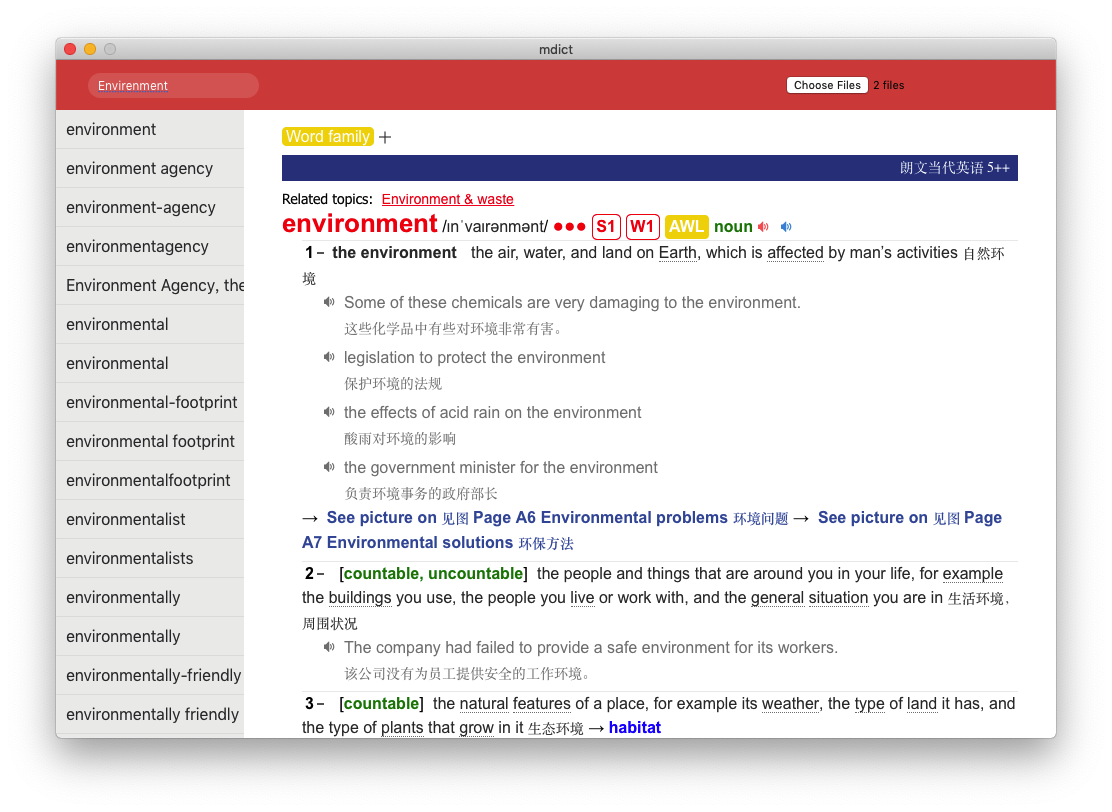
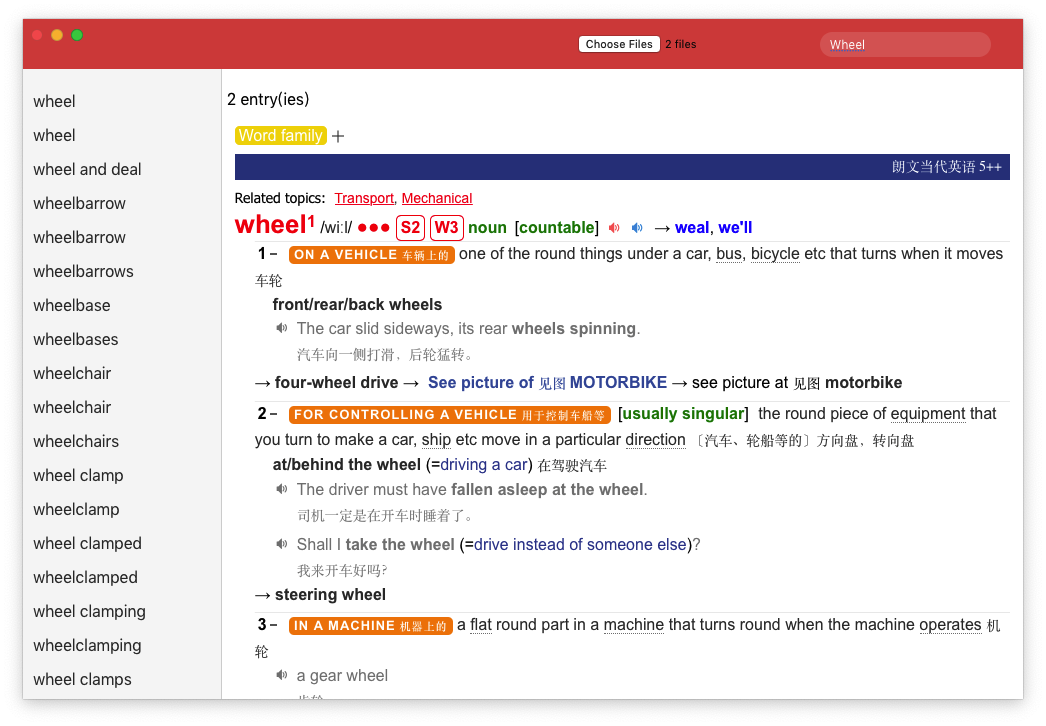
界面优化

diff --git a/public/static/js/mdict-renderer.js b/public/static/js/mdict-renderer.js
@@ -1,7 +1,7 @@
 /*
  * A basic html renderer companioned with mdict-render.js to retrieve word's definition from a MDict dictionary.
  * By Feng Dihai <fengdh@gmail.com>, 2015/07/01
- * 
+ *
  * For my wife, my kids and family to whom I'm in love with life.
  *
  * This is free software released under terms of the MIT License.
@@ -29,124 +29,132 @@
 (function (root, factory) {
   "use strict";
 
-  if (typeof define === 'function' && define.amd) {
+  if (typeof define === "function" && define.amd) {
     // AMD. Register as an anonymous module.
-    define(['jquery', 'bluebird', 'speex', 'pcmdata', 'bitstring'], factory);
+    define(["jquery", "bluebird", "speex", "pcmdata", "bitstring"], factory);
   } else {
     // Browser globals
     factory(jQuery, Promise);
   }
-
-}(this, function ($, Promise, SpeexLib, PCMDataLib) {
+})(this, function ($, Promise, SpeexLib, PCMDataLib) {
   var MIME = {
-    'css': 'text/css',
-    'img': 'image',
-    'jpg': 'image/jpeg',
-    'png': 'image/png',
-    'spx': 'audio/x-speex',
-    'wav': 'audio/wav',
-    'mp3': 'audio/mp3',
-    'js' : 'text/javascript'
+    css: "text/css",
+    img: "image",
+    jpg: "image/jpeg",
+    png: "image/png",
+    spx: "audio/x-speex",
+    wav: "audio/wav",
+    mp3: "audio/mp3",
+    js: "text/javascript",
   };
-  
+
   function getExtension(filename, defaultExt) {
     return /(?:\.([^.]+))?$/.exec(filename)[1] || defaultExt;
   }
-  
+
   // TODO: revoke unused resource, LRU
   // TODO: support for word variation
   return function createRenderer(resources) {
-
     var cache = (function createCache(mdd) {
-    var repo = {};
-    
+      var repo = {};
+
       function get(id, load) {
         var entry = repo[id];
         if (!entry) {
-          repo[id] = entry = new Promise(function(resolve) {
-          var will = mdd.then(function(lookup) {
-            console.log('lookup: ' + id);
-            return lookup(id);
-          }).then(load)
-            .then(function(url) { resolve(url); });
+          repo[id] = entry = new Promise(function (resolve) {
+            var will = mdd
+              .then(function (lookup) {
+                // console.log('lookup: ' + id);
+                return lookup(id);
+              })
+              .then(load)
+              .then(function (url) {
+                resolve(url);
+              });
           });
         }
         return entry;
       }
-      
-      return {get: get};
-    })(resources['mdd']);
-    
+
+      return { get: get };
+    })(resources["mdd"]);
+
     function loadData(mime, data) {
-      var blob = new Blob([data], {type: mime});
-      return URL.createObjectURL(blob);      
+      var blob = new Blob([data], { type: mime });
+      return URL.createObjectURL(blob);
     }
-  
+
     function loadAudio(ext, data) {
-      if (ext === 'spx') {
+      if (ext === "spx") {
         var blob = decodeSpeex(String.fromCharCode.apply(null, data));
         return URL.createObjectURL(blob);
-      } else {  // 'spx'
-        return loadData(MIME[ext] || 'audio', data);
+      } else {
+        // 'spx'
+        return loadData(MIME[ext] || "audio", data);
       }
     }
-    
+
     // TODO: LRU cache: remove oldest one only after rendering.
     function replaceImage(index, img) {
       var $img = $(img);
-      var src = $img.attr('src'), m = /^file:\/\/(.*)/.exec(src);
-      if (m) { src = m[1]; }
-      cache.get(src, loadData.bind(null, MIME['img']))
-           .then(function(url) {
-              $img.attr({src: url, src_: src});
-            });
+      var src = $img.attr("src"),
+        m = /^file:\/\/(.*)/.exec(src);
+      if (m) {
+        src = m[1];
+      }
+      cache.get(src, loadData.bind(null, MIME["img"])).then(function (url) {
+        $img.attr({ src: url, src_: src });
+      });
     }
-    
+
     function playAudio(e, $a) {
-      ($a || $(this)).find('audio')[0].play();
+      ($a || $(this)).find("audio")[0].play();
     }
-    
+
     function renderAudio() {
       var $a = $(this);
-      if ($a.attr('href_')) {
+      if ($a.attr("href_")) {
         playAudio($a);
       } else {
-        var href = $a.attr('href'), res = href.substring(8);
-        var ext = getExtension(res, 'wav');
-        cache.get(res, loadAudio.bind(null, ext))
-             .then(function(url) {
-                $a.append($('<audio>').attr({src: url, src_: href})).on('click', playAudio);
-                setTimeout(playAudio.bind($a));
-             });
+        var href = $a.attr("href"),
+          res = href.substring(8);
+        var ext = getExtension(res, "wav");
+        cache.get(res, loadAudio.bind(null, ext)).then(function (url) {
+          $a.append($("<audio>").attr({ src: url, src_: href })).on(
+            "click",
+            playAudio
+          );
+          setTimeout(playAudio.bind($a));
+        });
       }
       return false;
     }
-    
+
     function replaceCss(index, link) {
       var $link = $(link);
-      var href = $link.attr('href');
-      cache.get(href, loadData.bind(null, MIME['css']))
-           .then(function(url) {
-              // $link.attr({href: url, href_: href});
-              // TODO: Limit scope of embedded styles provide by mdd file
-              // TODO: use shadow dom for Chrome
-              // TODO: use scoped style for Firefox
-              $link.replaceWith($('<style scoped>', {src_: href}).text('@import url("' + url + '")'));
-            });
+      var href = $link.attr("href");
+      cache.get(href, loadData.bind(null, MIME["css"])).then(function (url) {
+        // $link.attr({href: url, href_: href});
+        // TODO: Limit scope of embedded styles provide by mdd file
+        // TODO: use shadow dom for Chrome
+        // TODO: use scoped style for Firefox
+        $link.replaceWith(
+          $("<style scoped>", { src_: href }).text('@import url("' + url + '")')
+        );
+      });
     }
-    
+
     function injectJS(index, el) {
       var $el = $(el);
-      var src = $el.attr('src');
-      cache.get(src, loadData.bind(null, MIME['js']))
-           .then(function(url) {
-              $el.remove();
-              $.ajax({url: url, dataType: 'script', cache: true});
-            });
-    }    
-    
+      var src = $el.attr("src");
+      cache.get(src, loadData.bind(null, MIME["js"])).then(function (url) {
+        $el.remove();
+        $.ajax({ url: url, dataType: "script", cache: true });
+      });
+    }
+
     function decodeSpeex(file) {
-      var ogg = new Ogg(file, {file: true});
+      var ogg = new Ogg(file, { file: true });
       ogg.demux();
 
       var header = Speex.parseHeader(ogg.frames[0]);
@@ -158,66 +166,68 @@
       var spx = new Speex({
         quality: 8,
         mode: header.mode,
-        rate: header.rate
+        rate: header.rate,
       });
-      
-      var waveData = PCMData.encode({
-          sampleRate: header.rate,
-          channelCount: header.nb_channels,
-          bytesPerSample: 2,
-          data: spx.decode(ogg.bitstream(), ogg.segments)
-        });
 
-      return new Blob([Speex.util.str2ab(waveData)], {type: "audio/wav"});
+      var waveData = PCMData.encode({
+        sampleRate: header.rate,
+        channelCount: header.nb_channels,
+        bytesPerSample: 2,
+        data: spx.decode(ogg.bitstream(), ogg.segments),
+      });
+
+      return new Blob([Speex.util.str2ab(waveData)], { type: "audio/wav" });
     }
 
     function render($content) {
-      if (resources['mdd']) {
-        $content.find('img[src]').each(replaceImage);
-        
-        $content.find('link[rel=stylesheet]').each(replaceCss);
-        
-        $content.find('script[src]').each(injectJS);
-        
-        $content.find('a[href^="sound://"]').on('click', renderAudio);
-        
-        setTimeout(function() { $('#definition *').trigger('resize'); });
+      if (resources["mdd"]) {
+        $content.find("img[src]").each(replaceImage);
+
+        $content.find("link[rel=stylesheet]").each(replaceCss);
+
+        $content.find("script[src]").each(injectJS);
+
+        $content.find('a[href^="sound://"]').on("click", renderAudio);
+
+        setTimeout(function () {
+          $("#definition *").trigger("resize");
+        });
       }
-      
-// resolve entry:// link dynamically in mdict.js      
-//      // rewrite in-page link
-//      $content.find('a[href^="entry://"]').each(function() { 
-//        var $el = $(this), href = $el.attr('href');
-//        if (href.match('#')) {
-//          $el.attr('href', href.substring(8));
-//        }
-//      });
-      
+
+      // resolve entry:// link dynamically in mdict.js
+      //      // rewrite in-page link
+      //      $content.find('a[href^="entry://"]').each(function() {
+      //        var $el = $(this), href = $el.attr('href');
+      //        if (href.match('#')) {
+      //          $el.attr('href', href.substring(8));
+      //        }
+      //      });
+
       return $content;
-    }    
-    
+    }
+
     return {
       lookup: function lookup(query) {
-        return (resources['mdx'] || resources['mdd'])
+        return (resources["mdx"] || resources["mdd"])
           .then(function (lookup) {
             return lookup(query);
-          }).then(function (definitions) {
-            console.log('lookup done!');
-            var html = definitions.reduce(function(prev, txt) { 
-              return prev + '<p></p>' + txt;
-            }, '<p>' + definitions.length + ' entry(ies) </p>');
-            return Promise.resolve(render($('<div>').html(html)));
+          })
+          .then(function (definitions) {
+            console.log("lookup done!");
+            var html = definitions.reduce(function (prev, txt) {
+              return prev + "<p></p>" + txt;
+            }, "<p>" + definitions.length + " entry(ies) </p>");
+            return Promise.resolve(render($("<div>").html(html)));
           });
       },
-      
+
       search: function (query) {
-        return resources['mdx'].then(function(lookup) {
+        return resources["mdx"].then(function (lookup) {
           return lookup(query);
         });
       },
-      
+
       render: render,
     };
-  }
-
-}));
+  };
+});

diff --git a/src/App.module.scss b/src/App.module.scss
@@ -1,4 +1,5 @@
 .mdictApp {
+  border-radius: 30px;
   .topRightbButton {
     display: flex;
     align-items: center;
@@ -31,20 +32,23 @@
     display: flex;
     height: calc(100vh - 50px);
     .searchList {
-      background: #ededed;
+      background: #f6f6f6;
+      border-right: 1px solid #d5d5d5;
       overflow: auto;
       margin: 0;
-      padding: 0;
+      padding: 15px 0 0;
       list-style: none;
       width: 200px;
       li {
-        padding: 10px;
-        border-bottom: 1px solid #e1e1e1;
+        padding: 8px 10px;
         color: #333;
         cursor: pointer;
         white-space: nowrap;
+        overflow: hidden;
+        text-overflow: ellipsis;
+        white-space: nowrap;
         &:hover {
-          background: #e2e2e2;
+          background: #d2d2d2;
           color: #d74e48;
         }
       }

diff --git a/src/App.js b/src/App.js
@@ -42,10 +42,13 @@ function App() {
       phrase: keywords,
       max: 50,
     });
-    const searchResList = searchRes.map((v) => ({
-      word: v.toString(),
-      value: v.offset,
-    }));
+
+    const searchResList = searchRes
+      .filter((it) => !/\_|\-/g.test(it))
+      .map((v) => ({
+        word: v.toString(),
+        value: v.offset,
+      }));
     setSearchList(searchResList);
   };
 
